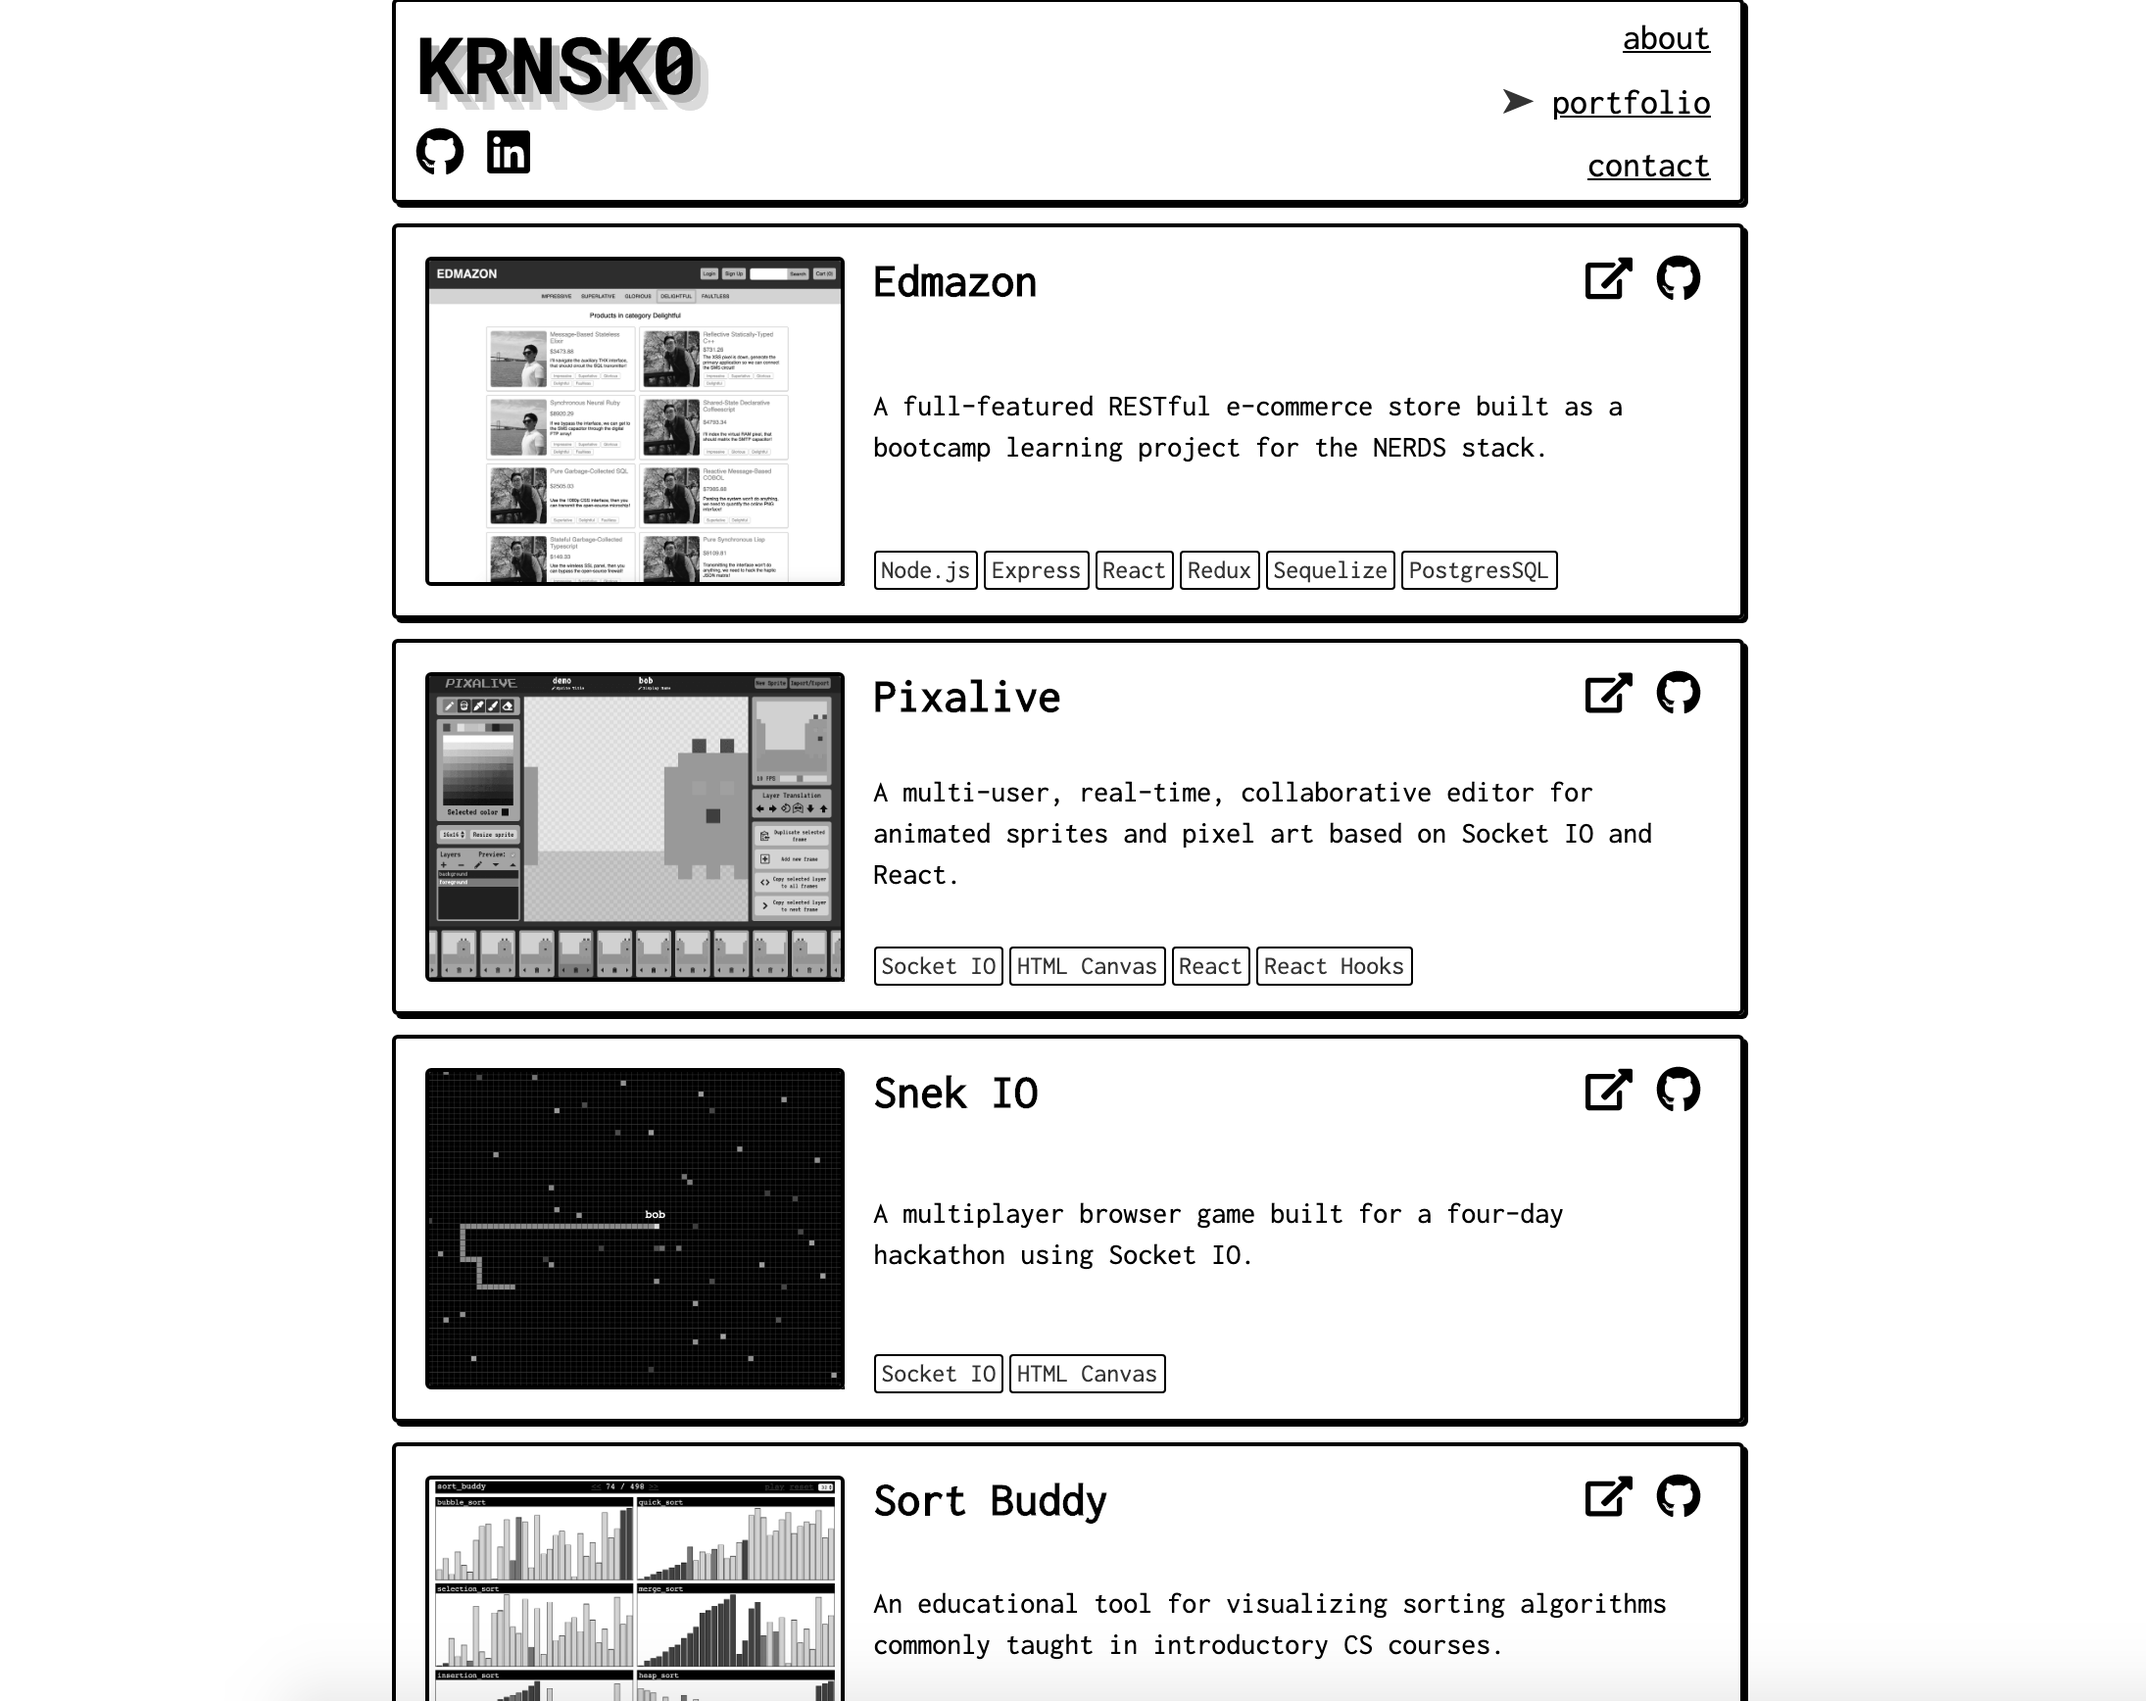
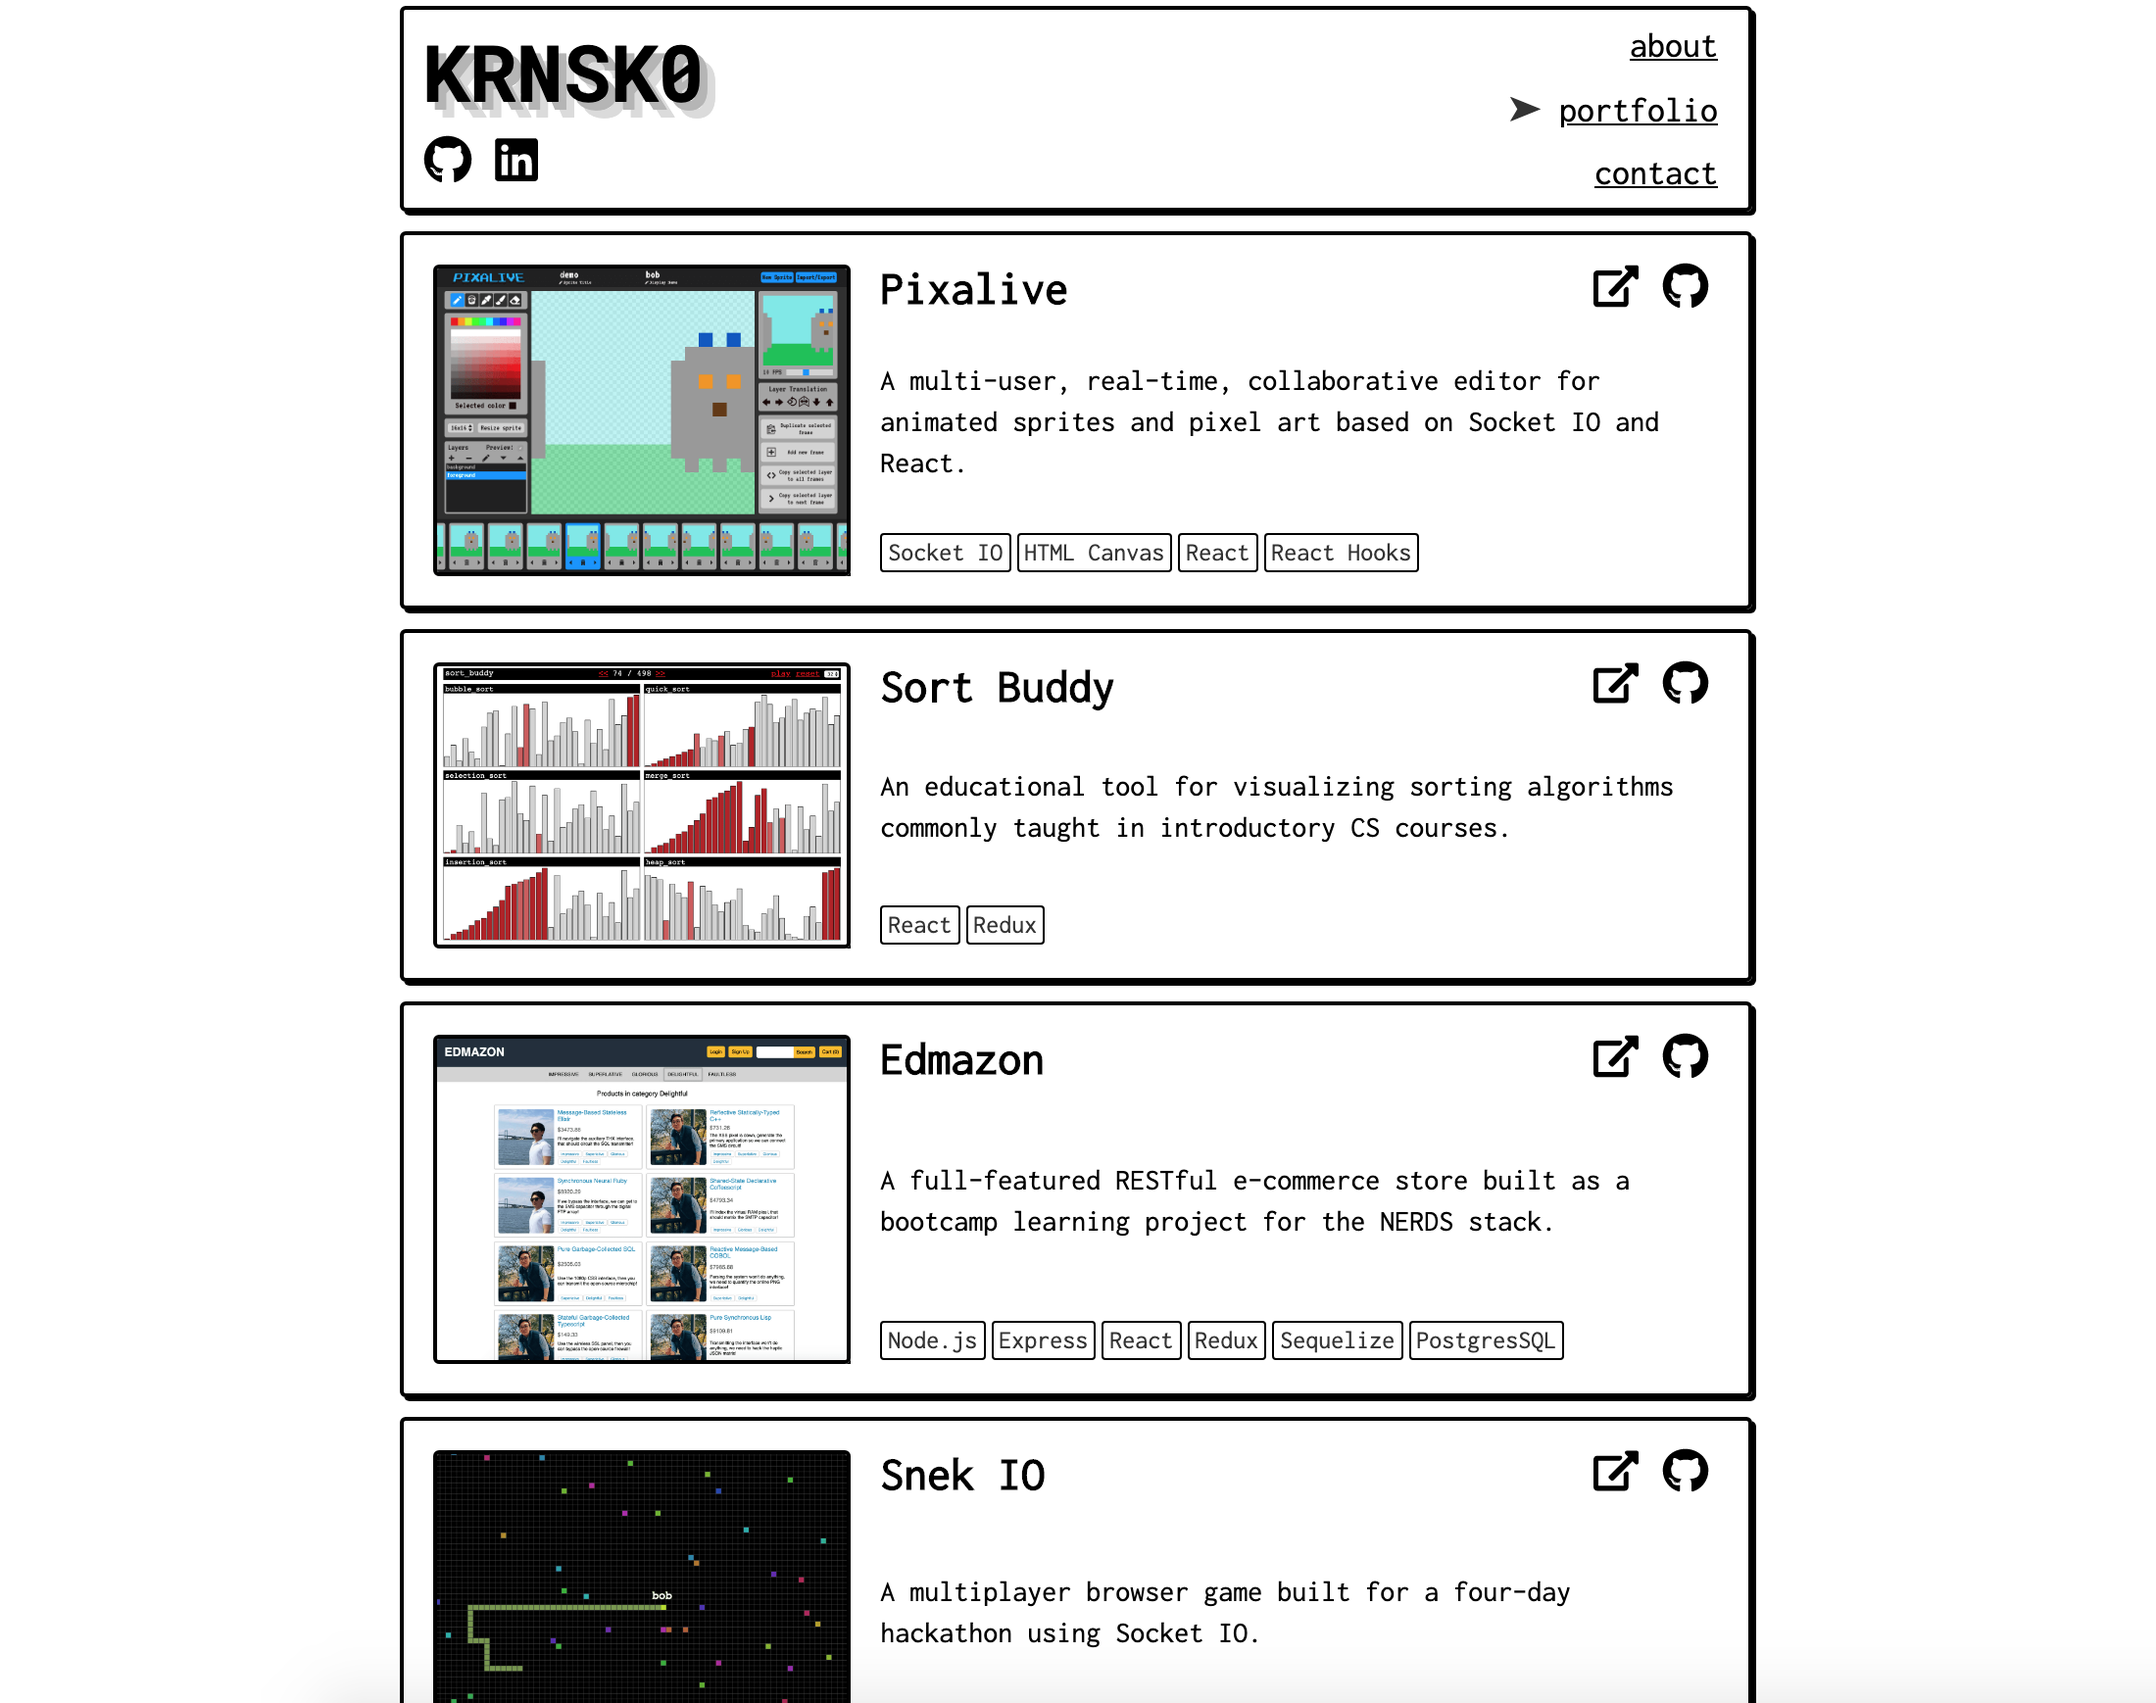
add ordering to portfolio page

Changed region(s): [[0.1863, 0.0, 0.8384, 1.0]]

diff --git a/src/pages/portfolio.js b/src/pages/portfolio.js
@@ -10,12 +10,7 @@ import { FaGithub, FaExternalLinkAlt } from "react-icons/fa"
 const ProjectContainer = styled.div`
   display: flex;
   flex-direction: row;
-  @media (max-width: 700px) {
-    flex-direction: column;
-  }
   & img {
-    -webkit-filter: grayscale(100%);
-    filter: grayscale(100%);
     border: 2px solid black;
     border-radius: 3px;
     box-shadow: 2px 2px black;
@@ -23,6 +18,15 @@ const ProjectContainer = styled.div`
   &:hover img {
     -webkit-filter: none;
     filter: none;
+  }
+  @media (max-width: 700px) {
+    flex-direction: column;
+  }
+  @media (hover: hover) {
+    & img {
+      -webkit-filter: grayscale(100%);
+      filter: grayscale(100%);
+    }
   }
 `
 const ImageContainer = styled.div`
@@ -155,11 +159,12 @@ export default props => {
 
 export const query = graphql`
   query {
-    allMarkdownRemark {
+    allMarkdownRemark(sort: { fields: [frontmatter___priority], order: DESC }) {
       edges {
         node {
           id
           frontmatter {
+            priority
             title
             dateString
             deployedSiteUrl
@@ -167,7 +172,7 @@ export const query = graphql`
             image {
               publicURL
               childImageSharp {
-                fluid(maxWidth: 980) {
+                fluid(maxWidth: 700) {
                   ...GatsbyImageSharpFluid
                 }
               }

diff --git a/src/data/projects/krnsk0.md b/src/data/projects/krnsk0.md
@@ -1,9 +1,10 @@
 ---
+priority: 0
 title: "krnsk0.dev"
 dateString: "June 2019"
 deployedSiteUrl: "www.krnsk0.dev"
 repoUrl: "https://github.com/krnsk0/krnsk0.dev"
 image: "./krnsk0_screenshot.png"
 builtWith: ["Gatsby", "React", "Styled Components", "Netlify"]
-description: "A fast, responsive portfolio site built to learn Gatsby."
+description: "A fast, responsive portfolio site built as a JAMstack learning project."
 ---

diff --git a/src/data/projects/edmazon.md b/src/data/projects/edmazon.md
@@ -1,4 +1,5 @@
 ---
+priority: 100
 title: "Edmazon"
 dateString: "April 2019"
 deployedSiteUrl: "https://edmazon.herokuapp.com/products/categories/1/offset/0"

diff --git a/src/data/projects/sort_buddy.md b/src/data/projects/sort_buddy.md
@@ -1,4 +1,5 @@
 ---
+priority: 150
 title: "Sort Buddy"
 dateString: "April 2019"
 deployedSiteUrl: "https://krnsk0.github.io/sort_buddy/"

diff --git a/src/data/projects/pixalive.md b/src/data/projects/pixalive.md
@@ -1,4 +1,5 @@
 ---
+priority: 200
 title: "Pixalive"
 dateString: "May 2019"
 deployedSiteUrl: "https://pixalive.herokuapp.com/"

diff --git a/src/data/projects/snek_io.md b/src/data/projects/snek_io.md
@@ -1,4 +1,5 @@
 ---
+priority: 90
 title: "Snek IO"
 dateString: "May 2019"
 deployedSiteUrl: "https://snekio.herokuapp.com/"
